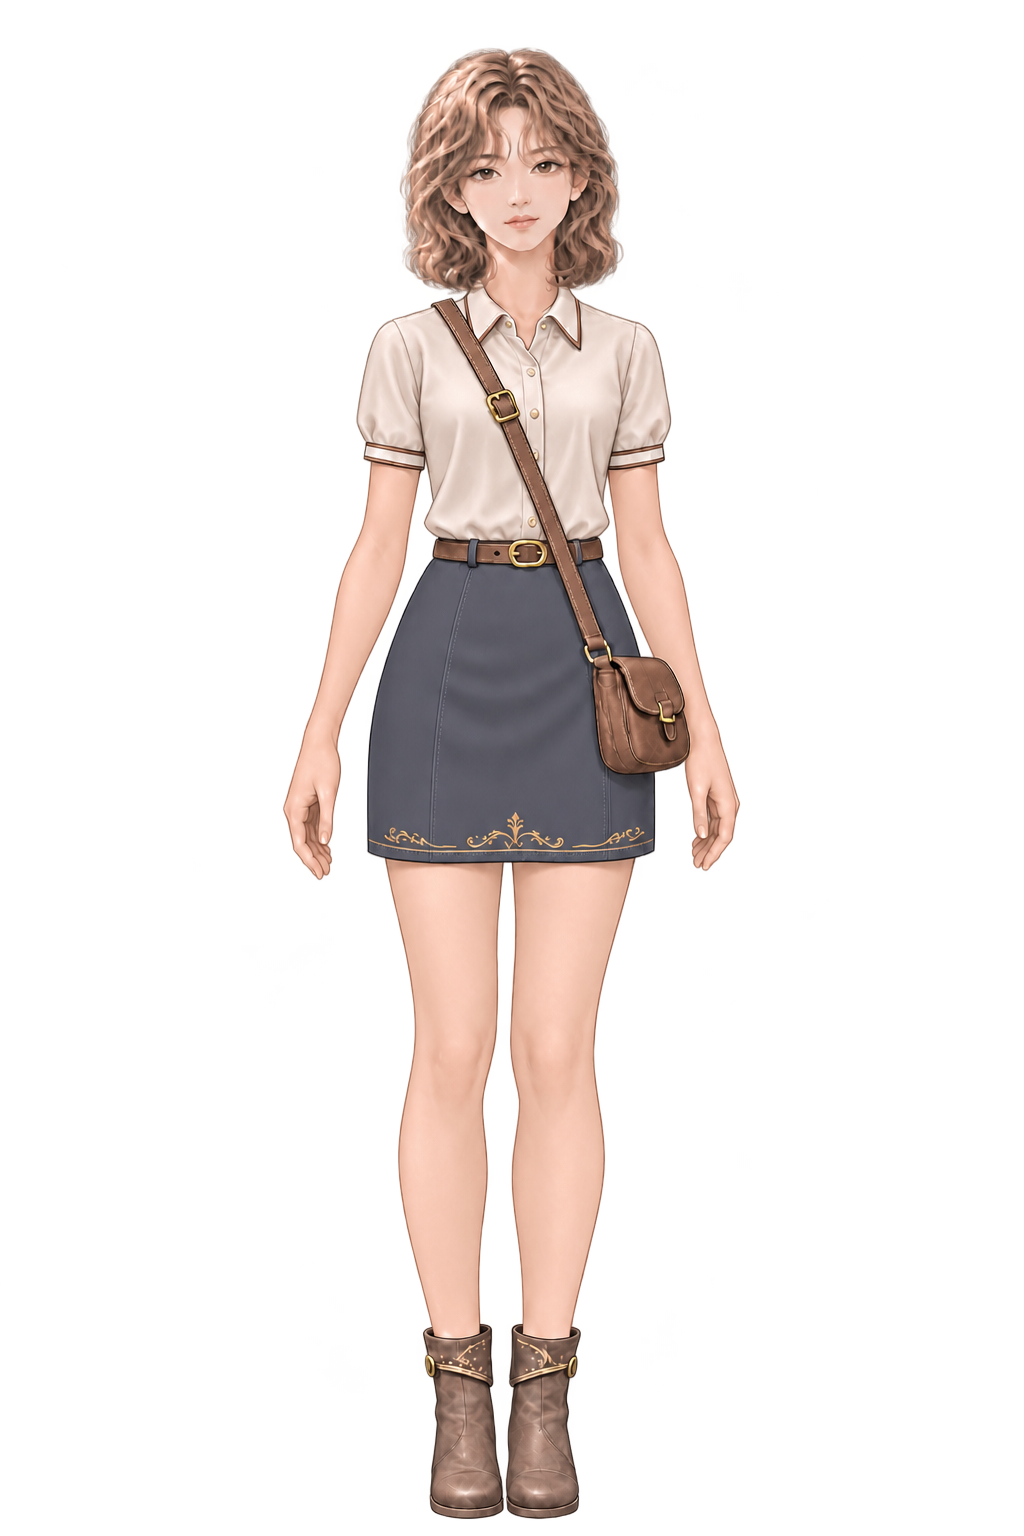
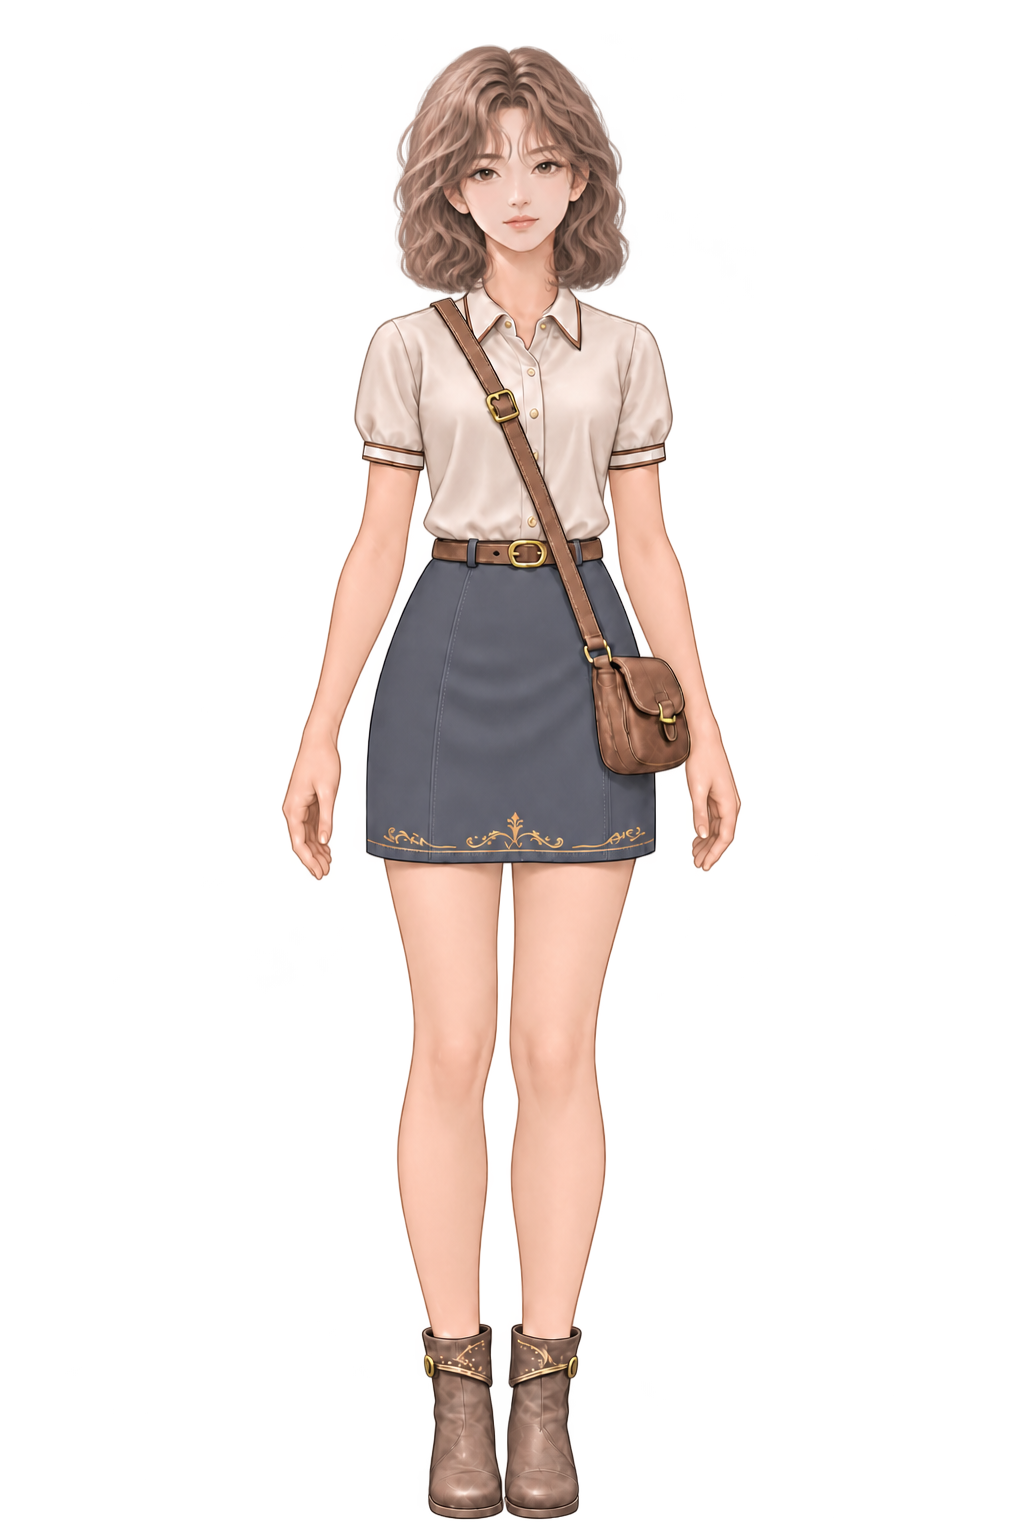
Match Yeogyeong hair rendering to her illustrated portrait

diff --git a/fantasy-rpg/desktop/README.md b/fantasy-rpg/desktop/README.md
@@ -1,6 +1,6 @@
 <!-- release-summary:start -->
-# v0.42.135 차여경 일상복 원화 마감
-차여경 일상복의 과한 천 질감을 정리하고 재봉선과 자수 디테일을 다듬었습니다. 투명 원화를 무손실로 패키징합니다. Windows 실기기 검증은 별도입니다.
+# v0.42.136 차여경 일상복 머리카락 질감 보정
+차여경 이세계 일상복의 머리카락 결을 정리해 얼굴 원화의 질감에 맞췄습니다. Windows 실기기 검증은 별도입니다.
 <!-- release-summary:end -->
 
 # v0.42.111 · 칼리스트라와 벨카리온 설정 보완
